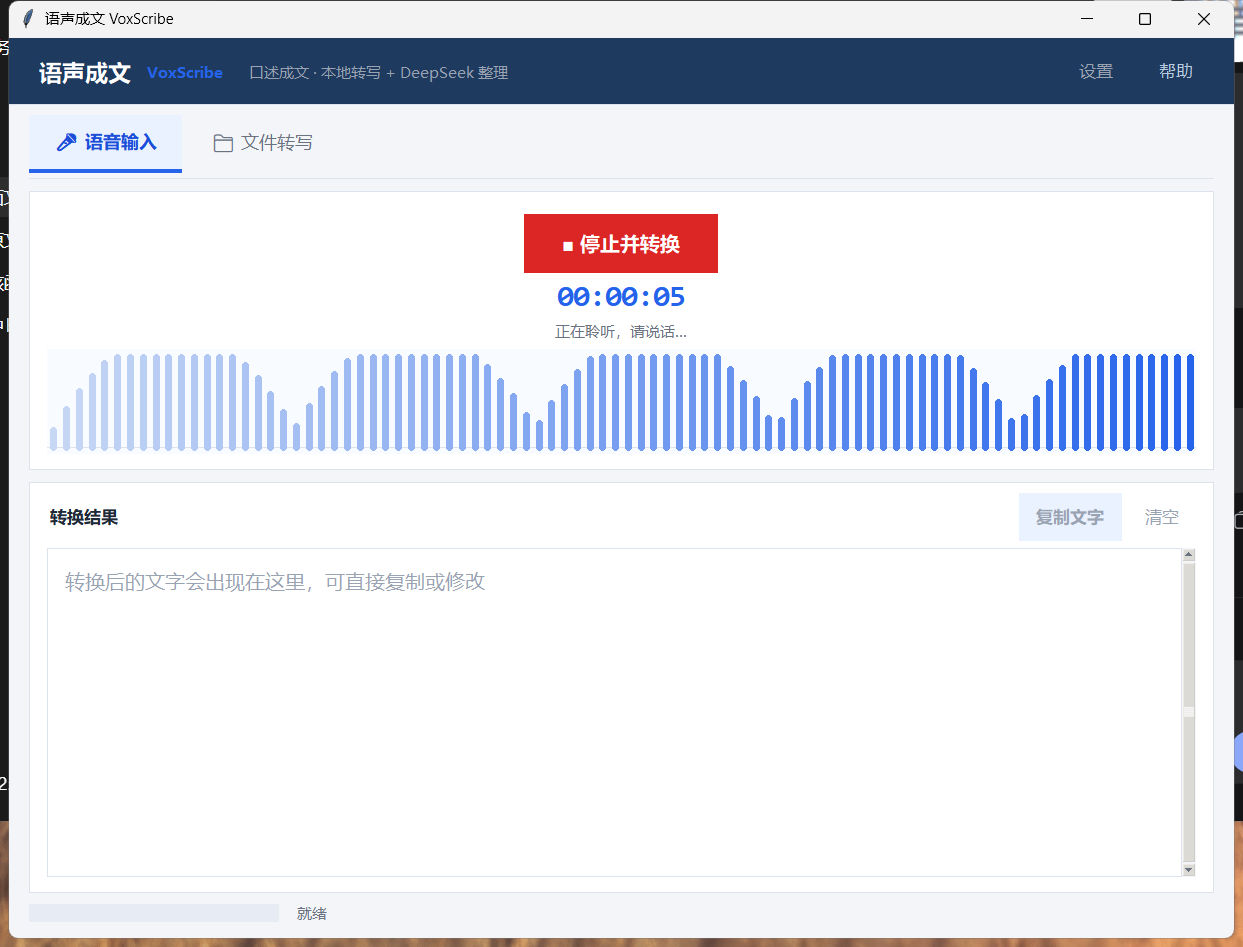
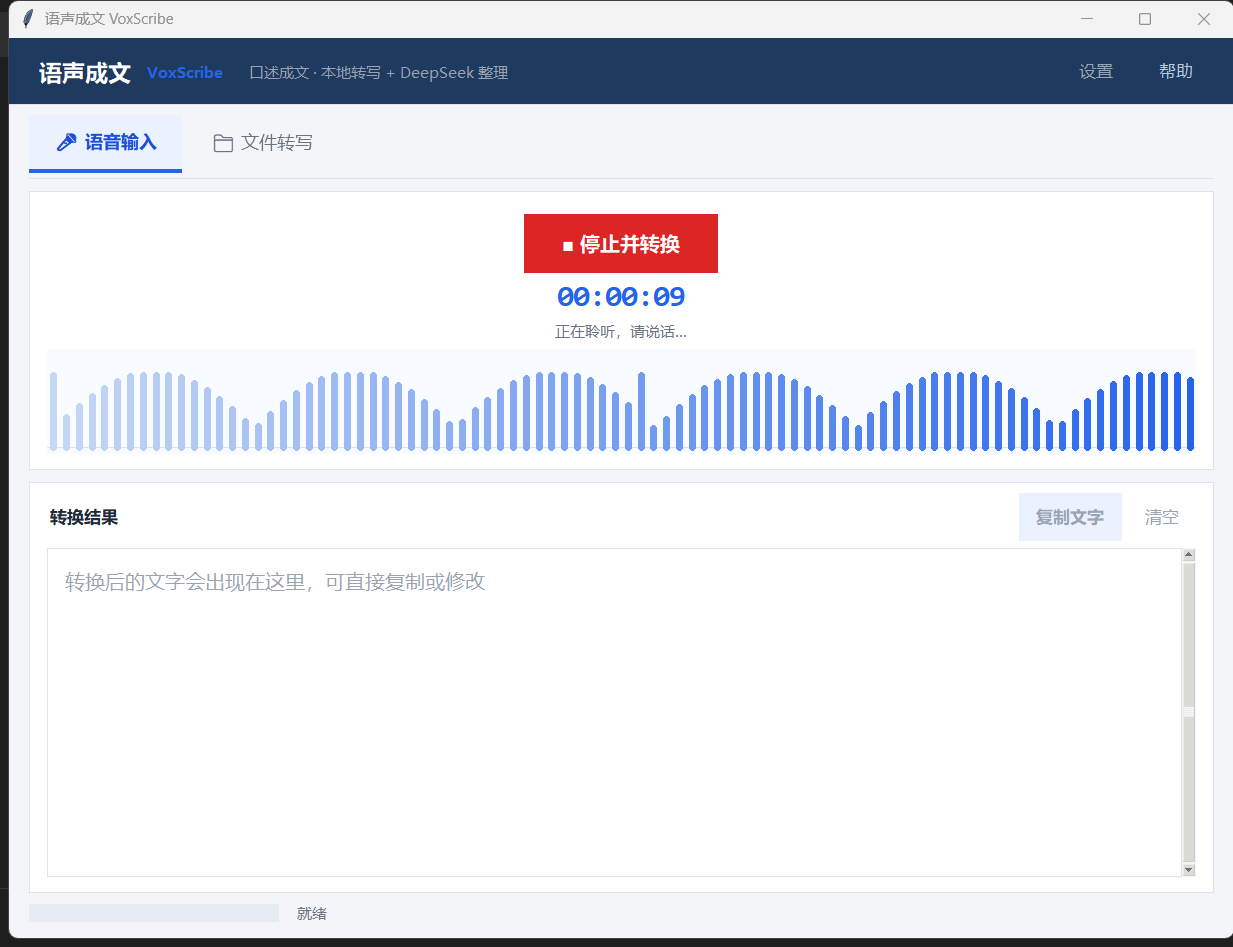
fix(v1.3.1): 波形顶部留白 + 自动语言检测（英文不再被翻译成中文）
- 波形映射保留 20% 顶部余量：正常说话约 24%~78% 高度，1.0 峰值也封顶 80%，不再顶到上沿
- 默认语言改为 auto 自动检测：英文语音按英文转写/整理，中文按中文；中英混说保留英文原词
- prompt 新增硬规则「保持原文语言，不要翻译」（英文/中文/中英夹杂均适用）
- 真实 GPU + DeepSeek 验证：英文 TTS -> 英文原文/英文整理；中文 -> 中文；中英混合文本英文单词保持原样
- 更新截图与 README；182 常规测试 / 190 全量测试通过

diff --git a/voxscribe/gui/app.py b/voxscribe/gui/app.py
@@ -177,6 +177,18 @@ def _clamp01(value: Any) -> float:
         return 0.0
 
 
+def _wave_visual(level: float) -> float:
+    """把归一化音量映射成波形高度比例（0~0.8）。
+
+    保留顶部 20% 余量：正常说话（0.2~0.8）对应约 24%~78% 高度，
+    即使很响的瞬间也不会顶到波形区上沿。
+    """
+    value = _clamp01(level)
+    if value < 0.01:  # 噪声门：安静时不画明显波形
+        return 0.0
+    return min(0.8, (value ** 0.85) * 0.95)
+
+
 def _blend_color(start: str, end: str, ratio: float) -> str:
     """在两个 ``#rrggbb`` 颜色之间线性插值。"""
     ratio = max(0.0, min(1.0, float(ratio)))
@@ -997,8 +1009,8 @@ class MainWindow:
                 if level < 0.01:  # 噪声门：安静时只留最小柱
                     amplitude = min_height
                 else:
-                    # 视觉放大：安静环境 0.008 接近平线，正常说话 0.2~0.8 起伏明显
-                    visual = min(1.0, level * 1.6) ** 0.8
+                    # 视觉映射：保留顶部 20% 余量，正常说话不会顶到上沿
+                    visual = _wave_visual(level)
                     amplitude = max(min_height, visual * max_height)
                 ratio = (index + 1) / float(len(values))
                 color = _blend_color(COLORS["wave_old"], COLORS["wave_new"], ratio)
@@ -1034,7 +1046,7 @@ class MainWindow:
                     x = (offset + index + 0.5) * slot
                     level = max(0.0, min(1.0, value))
                     amplitude = max(
-                        theme.px(1), (min(1.0, level * 1.6) ** 0.8) * max_height
+                        theme.px(1), _wave_visual(level) * max_height
                     )
                     self.wave_canvas.create_line(
                         x,

diff --git a/tests/test_gui_home.py b/tests/test_gui_home.py
@@ -391,6 +391,13 @@ def test_home_minimal_layout_and_half_wave(gui_env):
         # 波形高度压缩到约 80~100（96dpi 设计值，随 DPI 缩放）
         wave_height = int(window.wave_canvas.cget("height"))
         assert 60 <= wave_height <= 160, wave_height
+        # v1.3.1：波形高度映射保留顶部余量，正常说话不会顶到上沿
+        from voxscribe.gui.app import _wave_visual
+
+        assert _wave_visual(1.0) <= 0.8
+        assert _wave_visual(0.8) < 0.8
+        assert _wave_visual(0.5) < 0.6
+        assert _wave_visual(0.0) == 0.0
         # 空闲波形区内不再有小字（只有基线与刻度线）
         window._draw_home_idle()
         types = {window.wave_canvas.type(item) for item in window.wave_canvas.find_all()}

diff --git a/voxscribe/prompts.py b/voxscribe/prompts.py
@@ -115,7 +115,10 @@ _COMMON_RULES = (
     "（若上下文表明是语音识别造成的明显同音错字，应按正确写法校正）。\n"
     "4. 明显的语音识别错别字（同音字、近音字、断错的词）要结合上下文校正，"
     "但不要过度改写或扩写；拿不准的保留原文。\n"
-    "5. 输出语言：{language}。\n"
+    "5. 保持原文语言，不要翻译：原文是英文就输出英文，原文是中文就输出中文；"
+    "中英夹杂时英文单词、短语保持英文原样，不要翻译成中文"
+    "（除非用户明确要求翻译）。\n"
+    "6. 输出语言：{language}。\n"
 )
 
 # ---------------------------------------------------------------------------

diff --git a/voxscribe/config.py b/voxscribe/config.py
@@ -80,7 +80,7 @@ class AppSettings:
     asr_device: str = "cuda"  # cuda / cpu；用户要求默认走 GPU
     compute_type: str = "auto"  # auto = cuda→float16 / cpu→int8
     cpu_threads: int = 0  # 仅 CPU 模式使用；0 = 自动（最多 4 线程）
-    language: str = "zh"  # zh / en / ja / ko / auto
+    language: str = "auto"  # auto / zh / en / ja / ko；自动检测可中英混说
     beam_size: int = 5
     vad_filter: bool = True
     model_dir: str = ""  # 空 = data/models

diff --git a/tests/test_config.py b/tests/test_config.py
@@ -16,6 +16,7 @@ def test_defaults() -> None:
     assert settings.asr_model == "medium"
     assert settings.api_model == "deepseek-chat"
     assert settings.api_base_url.startswith("https://")
+    assert settings.language == "auto"  # 默认自动检测，中英混说不会被强制翻译
     assert 1 <= settings.effective_threads() <= 4
     assert settings.idle_unload_seconds() == 0  # 默认常驻，保证口述响应速度
     assert settings.close_to_tray is True

diff --git a/tests/test_refine.py b/tests/test_refine.py
@@ -246,6 +246,8 @@ def test_proofread_style_prompt_and_result(server, refiner, sample_transcript):
         "音轨",
         "术语表",
         "口头禅",
+        "不要翻译",
+        "英文",
     ):
         assert keyword in system, f"proofread system prompt 缺少关键词：{keyword}"
     # 整词误识别示例：阴轨→音轨、以下→一下、在确认→再确认、帐目→账目

diff --git a/voxscribe/__init__.py b/voxscribe/__init__.py
@@ -9,7 +9,7 @@
 设计目标：快、轻量、界面克制、隐私友好；托盘常驻，Alt+~ 一键口述。
 """
 
-__version__ = "1.3.0"
+__version__ = "1.3.1"
 APP_NAME = "VoxScribe"
 APP_DISPLAY_NAME = "语声成文"
 

diff --git a/README.md b/README.md
@@ -44,8 +44,9 @@ DeepSeek 官方 API 目前**只提供文本模型**（`deepseek-chat`、`deepsee
 ### 🎤 首页「语音输入」——主打功能
 
 - **全局快捷键 Alt+~**：在 Word、微信、浏览器等任何程序前面按 **Alt+~**：**软件窗口会自动弹到前台并开始录音**；再按一次结束。软件在托盘待机时也生效。
-- **实时语音波形**：说话时波形随音量跳动，确认麦克风真的在收音；红色按钮 + 计时。
+- **实时语音波形**：说话时波形随音量跳动，确认麦克风真的在收音；红色按钮 + 计时。波形保留顶部余量，正常说话不会顶到上沿。
 - **极速出字**：GPU 转写完成后**先把原始文字显示出来**（状态显示「已转写，正在 DeepSeek 润色…」），DeepSeek 整理完再用最终稿替换——不用盯着空白等全程。
+- **自动语言检测**：默认自动识别中/英文——说英文就输出英文，**不会被翻译成中文**；中英混说时英文单词保持原样。
 - **自动复制**：设置里可开启「完成后自动复制到剪贴板」（默认开），最终稿直接到剪贴板。
 - **麦克风可选 + 无声提醒**：设置里可以选择具体麦克风（默认系统设备）；录音 1.5 秒仍没有检测到声音会直接提示「请检查麦克风是否静音/选错设备」，不会让你对着空气说话还不知道。
 - **麦克风采样率自适应**：16kHz 不支持的设备（不少 USB/蓝牙麦克风）会自动改用设备默认采样率（44.1/48kHz），接上就能用。
@@ -127,6 +128,7 @@ DeepSeek 官方 API 目前**只提供文本模型**（`deepseek-chat`、`deepsee
 | 取消录音 / 中止转换 | `Esc` |
 | 复制转换结果 | `Ctrl+Enter`（或「复制文字」按钮） |
 | 自动复制开关 | 设置 → 识别与性能 →「完成后自动复制到剪贴板」 |
+| 中英混说 / 说英文 | 默认自动识别，不会翻译成中文；如异常请确认未把语言固定为中文 |
 | 从托盘恢复主界面 | 双击托盘图标，或右键 → 显示主界面 |
 | 退出软件 | 右键托盘图标 → 退出 |
 | 长音频、会议录音 | 顶部切到「文件转写」页 |
@@ -298,6 +300,11 @@ $env:HF_ENDPOINT="https://hf-mirror.com"
 **12. 我有多个麦克风/耳机，怎么切换？**
 设置 → 麦克风设备，选好后保存，下次按 Alt+~ 就用这个设备；选「默认输入设备」则跟随系统。
 （程序支持采样率自适应：16k 不支持的设备会自动用 44.1/48kHz。）
+
+**13. 说英语时被翻译成中文了？**
+v1.3.1 起默认语言为「自动检测」：英文语音会输出英文，不会被翻译；中英混说时英文单词保持原样。
+如果仍出现翻译，请检查设置里的语言是否被固定为「中文」（文件转写页的「音频语言」下拉也请保持「自动检测」）。
+另外 AI 整理 prompt 已加入「保持原文语言、不要翻译」的硬性要求。
 
 ## 十三、项目结构
 
